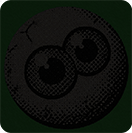
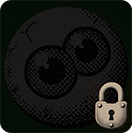
Added the ability to create new achievements and added new achievements.

Changed region(s): [[0.697, 0.6015, 0.9697, 0.9925]]

diff --git a/achievements.js b/achievements.js
@@ -1,35 +1,55 @@
 const ACHIEVEMENT_KEY='skinator-achievements-v1';
 const ACHIEVEMENT_ICON_BASE='assets/achievements/';
+const ACHIEVEMENT_SEED_VERSION=2;
+const ACHIEVEMENT_SEED_UPDATED_AT='2026-09-15T00:00:00.000Z';
 const ACHIEVEMENT_SEED=[
-  ['ACH_OPERATOR_LICENSE','OPERATOR LICENSE','Complete the tutorial.','ach_OperatorLicense'],
-  ['ACH_EVOLUTION','EVOLUTION','Replace one of your body parts.','ach_evolution'],
-  ['ACH_SEEKER','SEEKER','Use the reset button on the Body part swap screen.','ach_seeker'],
-  ['ACH_FIRST_BLOOD','FIRST BLOOD','Defeat your first enemy in the main game.','ach_firstBlood'],
-  ['ACH_DOMINATION','DOMINATION','Beat Knu Rao.','ach_DOMINATION'],
-  ['ACH_MASTERY','MASTERY','Beat 5 enemies in the main game.','ach_mastery'],
-  ['ACH_CLEANUP','CLEANUP','Defeat 10 enemies in a single run.','ach_cleanup'],
-  ['ACH_THIRST','THIRST','Drink a potion.','ach_thirst'],
-  ['ACH_BUSINESS','BUSINESS','Buy a body part from the Shop Keeper.','ach_business'],
-  ['ACH_CONTABAND','CONTABAND','Purchase a spin at the Corpse Monger.','ach_contraband'],
-  ['ACH_CURSE','CURSE','Ascend a part with the Temple Priest.','ach_curse'],
-  ['ACH_MOGUL','MOGUL','Buy all 3 parts at the Shop Keeper in a single interaction.','ach_mogul-copy'],
-  ['ACH_UNMATCHED','UNMATCHED','Beat Knu Rao with more than 50% of your Health Pool remaining.','ach_FlawlessVictory'],
-  ['ACH_REPLACEMENT','REPLACEMENT','Replace all default skeleton parts in a single run.','ach_replacement'],
-  ['ACH_BETRAYAL','BETRAYAL','Get the crow card at the Wandering Monk.','ach_Betrayal'],
-  ['ACH_PATH_FINDER','PATH FINDER','Talk with every NPC on the map.','ach_pathfinde'],
-  ['ACH_FORGIVENESS','FORGIVENESS','Escape from a fight.','ach_forgiveness-copy'],
-  ['ACH_BRITTLE_BONE','BRITTLE BONE','Get your Health Pool under 10 max health.','ach_brittleBone-copy'],
-  ['ACH_IRON_SKIN','IRON SKIN','Get your max health in the Health Pool to 50 points.','ach_ironskin-copy'],
-  ['ACH_RIP','RIP','Talk with Oborogumo.','ach_RIP'],
-  ['ACH_TARGET_ACQUIRED','TARGET ACQUIRED','Get into a fight with Knu Rao.','ach_TargetAcquired'],
-  ['ACH_STURDINESS','STURDINESS','Get your max health in the Health Pool to 30 points.','ach_sturdiness'],
-  ['ACH_LUCK','LUCK','Get a part from the Corpse Monger.','ach_luck'],
-  ['ACH_MUTATION','MUTATION','Get a body part with 3 modifiers.','ach_mutation'],
-  ['ACH_VELOCITY','VELOCITY','Get your max speed over 40 points.','ach_velocity'],
-  ['ACH_BURIAL','BURIAL','Die in the main game.','ach_burrial'],
-  ['ACH_RESURRECTION','RESURRECTION','Play a second run.','ach_Resurrection'],
-  ['ACH_SKINATOR','SKINATOR','Get all body parts in your collection.','ach_skinator'],
-  ['ACH_OBLITERATION','OBLITERATION','', 'ach_OBLITERATION-copy']
+  ['ACH_DOMINATION','DOMINATION','BEAT KNU-RAO.','domination'],
+  ['ACH_VETERAN','VETERAN','DEFEAT BOTH SANGO AND KNU-RAO AT LEAST ONCE.','veteran'],
+  ['ACH_PERSUATION','PERSUASION',"EXTRACT KNU-RAO'S SPAWN.",'persuasion'],
+  ['ACH_EVOLUTION','EVOLUTION','REPLACE ONE OF YOUR BODY PARTS.','evolution'],
+  ['ACH_SEEKER','SEEKER','USE THE RESET BUTTON ON THE BODY PART SWAP SCREEN.','seeker'],
+  ['ACH_OPERATOR_LICENSE','OPERATOR LICENSE','COMPLETE THE TUTORIAL.','operator_license'],
+  ['ACH_FIRST_BLOOD','FIRST BLOOD','DEFEAT AN ENEMY IN THE MAIN GAME.','first_blood'],
+  ['ACH_MASTERY','MASTERY','BEAT 5 ENEMIES IN THE MAIN GAME.','mastery'],
+  ['ACH_CLEANUP','CLEANUP','DEFEAT 10 ENEMIES IN A SINGLE RUN.','cleanup'],
+  ['ACH_THIRST','THIRST','DRINK A POTION.','thirst'],
+  ['ACH_BUSINESS','BUSINESS','BUY A BODY PART FROM THE SHOP KEEPER.','business'],
+  ['ACH_CONTABAND','CONTABAND','PURCHASE A SPIN AT THE CORPSE MONGER.','contraband'],
+  ['ACH_CURSE','CURSE','ASCEND A PART WITH THE TEMPLE PRIEST.','curse'],
+  ['ACH_DEXTERITY','DEXTERITY','SKINATE KNU-RAO.','dexterity'],
+  ['ACH_SKINATED','SKINATED','SKINATE AN ENEMY.','skinated'],
+  ['ACH_MOGUL','MOGUL','BUY ALL 3 PARTS AT THE SHOP KEEPER IN A SINGLE INTERACTION.','mogul'],
+  ['ACH_UNMATCHED','UNMATCHED','BEAT KNU-RAO WITH AT LEAST HALF YOUR MAXIMUM HEALTH REMAINING.','unmatched'],
+  ['ACH_REPLACEMENT','REPLACEMENT','REPLACE ALL DEFAULT SKELETON PARTS IN A SINGLE RUN.','replacement'],
+  ['ACH_BETRAYAL','BETRAYAL','GET THE CROW CARD AT THE WANDERING MONK.','betrayal'],
+  ['ACH_OBLITERATION','OBLITERATION','DEFEAT EVERY ENEMY ON A SINGLE MAP.','obliteration'],
+  ['ACH_PATH_FINDER','PATH FINDER','TALK WITH EVERY NPC ON THE MAP.','path_finder'],
+  ['ACH_FORGIVENESS','FORGIVENESS','ESCAPE FROM A FIGHT.','forgiveness'],
+  ['ACH_BRITTLE_BONE','BRITTLE BONE','GET YOUR HEALTH POOL UNDER 10 MAX HEALTH.','brittle_bone'],
+  ['ACH_IRON_SKIN','IRON SKIN','GET YOUR MAX HEALTH IN THE HEALTH POOL TO 50 POINTS.','iron_skin'],
+  ['ACH_RIP','RIP','TALK WITH OBOROGUMO.','rip'],
+  ['ACH_TARGET_ACQUIRED','TARGET ACQUIRED','GET INTO A FIGHT WITH KNU-RAO.','target_acquired'],
+  ['ACH_STURDINESS','STURDINESS','GET YOUR MAX HEALTH IN THE HEALTH POOL TO 30 POINTS.','sturdiness'],
+  ['ACH_LUCK','LUCK','GET A PART FROM THE CORPSE MONGER.','luck'],
+  ['ACH_MUTATION','MUTATION','GET A BODY PART WITH 3 MODIFIERS.','mutation'],
+  ['ACH_VELOCITY','VELOCITY','GET YOUR MAX SPEED OVER 40 POINTS.','velocity'],
+  ['ACH_BURIAL','BURIAL','DIE IN THE MAIN GAME.','burial'],
+  ['ACH_RESURRECTION','RESURRECTION','PLAY A SECOND RUN.','resurrection'],
+  ['ACH_SKINATOR','SKINATOR','NO DESC. NOT YET USED.','skinator'],
+  ['ACH_ACTIVATION','ACTIVATION','USE A SPAWN ABILITY FOR THE FIRST TIME.','activation'],
+  ['ACH_INTROSPECTION','INTROSPECTION','EQUIP GRAVEYARD DRONE PET.','introspection'],
+  ['ACH_AUTOPSY','AUTOPSY','CLICK THE INSPECT BUTTON IN THE BODY PART SWAP SCREEN.','autopsy'],
+  ['ACH_MENAGERIE','MENAGERIE','CHECK SPAWN INVENTORY IN THE MAIN MENU.','menagerie'],
+  ['ACH_ENCYCLOPEDIA','ENCYCLOPEDIA','GET ALL BODY PARTS FROM GRAVEYARD.','encyclopedia'],
+  ['ACH_ACCLIMATION','ACCLIMATION','DEFEAT 3 ENEMIES.','acclimation'],
+  ['ACH_BIOLOGY','BIOLOGY','CHECK PARASITE INVENTORY IN THE MAIN MENU.','biology'],
+  ['ACH_RESEARCH','RESEARCH','CHECK YOUR MODIFIER INVENTORY IN THE MAIN MENU.','research'],
+  ['ACH_EXORCIST','EXORCIST','SELECT SANGO AS TARGET IN THE MAIN MENU','exorcist'],
+  ['ACH_SERVANT','SERVANT',"EQUIP GENKE'S SPAWN",'servant'],
+  ['ACH_OSTENTATION','OSTENTATION','EQUIP KNU-RAO SPAWN.','ostentation'],
+  ['ACH_PURIFICATION','PURIFICATION','DEFEAT SANGO.','purification'],
+  ['ACH_MITOSIS','MITOSIS','GET GRAVEYARD DRONE PET.','mitosis'],
+  ['ACH_CAPTURE','CAPTURE',"EXTRACT GENKE'S SPAWN.",'capture']
 ].map(([apiName,displayName,description,fileBase],index)=>({
   id:apiName.toLowerCase(),
   order:index,
@@ -38,19 +58,38 @@ const ACHIEVEMENT_SEED=[
   displayName,
   description,
   hidden:false,
-  unlockedIcon:`${ACHIEVEMENT_ICON_BASE}${fileBase}_unlocked.png`,
-  lockedIcon:`${ACHIEVEMENT_ICON_BASE}${fileBase}_locked.png`,
-  updatedAt:new Date().toISOString()
+  unlockedIcon:`${ACHIEVEMENT_ICON_BASE}ach_${fileBase}_unlocked.png`,
+  lockedIcon:`${ACHIEVEMENT_ICON_BASE}ach_${fileBase}_locked.png`,
+  seedVersion:ACHIEVEMENT_SEED_VERSION,
+  updatedAt:ACHIEVEMENT_SEED_UPDATED_AT
 }));
 
+const achievementRecordKey=record=>String(record?.apiName||record?.id||'').trim().toUpperCase();
 function mergeAchievementSeed(records=[]){
-  const existing=new Map(records.map(record=>[record.apiName||record.id,record]));
-  return ACHIEVEMENT_SEED.map(seed=>({...seed,...(existing.get(seed.apiName)||existing.get(seed.id)||{})}))
-    .concat(records.filter(record=>!ACHIEVEMENT_SEED.some(seed=>seed.apiName===(record.apiName||record.id))));
+  const existing=new Map();
+  records.forEach(record=>{
+    existing.set(achievementRecordKey(record),record);
+    if(record.id)existing.set(String(record.id).trim().toUpperCase(),record);
+  });
+  const seedKeys=new Set(ACHIEVEMENT_SEED.flatMap(seed=>[achievementRecordKey(seed),String(seed.id).toUpperCase()]));
+  let migrated=false;
+  const seeded=ACHIEVEMENT_SEED.map(seed=>{
+    const record=existing.get(achievementRecordKey(seed))||existing.get(String(seed.id).toUpperCase());
+    if(!record){migrated=true;return{...seed}}
+    if((Number(record.seedVersion)||0)<ACHIEVEMENT_SEED_VERSION){
+      migrated=true;
+      return {...record,...seed,progressStat:record.progressStat||'',hidden:!!record.hidden,deleted:!!record.deleted};
+    }
+    return {...seed,...record};
+  });
+  const extras=records.filter(record=>!seedKeys.has(achievementRecordKey(record))&&!seedKeys.has(String(record.id||'').toUpperCase()));
+  window.skinatorAchievementSeedMigrated=!!window.skinatorAchievementSeedMigrated||migrated;
+  return seeded.concat(extras);
 }
 
 const savedAchievements=(()=>{try{return JSON.parse(localStorage.getItem(ACHIEVEMENT_KEY))||[]}catch{return[]}})();
 let achievements=mergeAchievementSeed(publishedSnapshot?.achievements||savedAchievements);
+if(window.skinatorAchievementSeedMigrated)try{localStorage.setItem(ACHIEVEMENT_KEY,JSON.stringify(achievements))}catch{}
 let editingAchievementId=null;
 let editingAchievementUnlocked='';
 let editingAchievementLocked='';
@@ -70,6 +109,7 @@ document.querySelector('main').insertAdjacentHTML('beforeend',`
   <section class="panel">
     <div class="toolbar achievement-toolbar">
       <label class="search">⌕ <input id="achievementSearch" placeholder="SEARCH ACHIEVEMENTS"></label>
+      <button class="btn red achievement-create" id="achievementCreate" type="button">＋ NEW ACHIEVEMENT</button>
       <label class="achievement-lock-switch"><input id="achievementDisplayLocked" type="checkbox"> DISPLAY LOCKED</label>
       <span id="achievementResultCount"></span>
     </div>
@@ -91,7 +131,7 @@ document.body.insertAdjacentHTML('beforeend',`
       <label>DESCRIPTION<textarea id="achievementDescription" rows="4"></textarea></label>
       <div class="achievement-checks"><label><input id="achievementHidden" type="checkbox"> HIDDEN / SECRET ACHIEVEMENT</label></div>
     </div>
-    <div class="dialog-actions"><span></span><span></span><button type="button" class="btn ghost achievement-close">CANCEL</button><button class="btn red" type="submit">SAVE ACHIEVEMENT</button></div>
+    <div class="dialog-actions"><button type="button" class="btn danger" id="achievementDelete" hidden>DELETE ACHIEVEMENT</button><span></span><button type="button" class="btn ghost achievement-close">CANCEL</button><button class="btn red" type="submit">SAVE ACHIEVEMENT</button></div>
   </form>
 </dialog>`);
 
@@ -112,6 +152,7 @@ document.head.appendChild(achievementZoomStyles);
 if(typeof addNodeZoom==='function')addNodeZoom({viewId:'achievementsView',gridId:'achievementGrid',label:'ACHIEVEMENT',key:'achievements'});
 
 function achievementImage(icon,storagePath,name){
+  if(!icon)return '<span class="achievement-icon-empty">NO ICON</span>';
   const fallback=icon&&storagePath?` data-fallback="${escapeHtml(icon)}"`:'';
   const storage=storagePath?` data-storage-path="${escapeHtml(storagePath)}" onerror="window.skinatorRefreshCloudImage?.(this)"`:'';
   return `<img src="${escapeHtml(icon||'')}" alt="${escapeHtml(name)}" loading="lazy" decoding="async"${storage}${fallback}>`;
@@ -120,12 +161,14 @@ function saveAchievements(){
   localStorage.setItem(ACHIEVEMENT_KEY,JSON.stringify(achievements));
   window.skinatorCloudSave?.();
 }
+const activeAchievements=()=>achievements.filter(record=>!record.deleted);
 function renderAchievements(){
   const query=($('achievementSearch').value||'').toLowerCase();
-  const rows=achievements.filter(record=>`${record.apiName} ${record.progressStat} ${record.displayName} ${record.description}`.toLowerCase().includes(query));
-  $('achievementCount').textContent=achievements.length;
-  $('navAchievementCount').textContent=achievements.length;
-  $('achievementHiddenCount').textContent=achievements.filter(record=>record.hidden).length;
+  const active=activeAchievements();
+  const rows=active.filter(record=>`${record.apiName} ${record.progressStat} ${record.displayName} ${record.description}`.toLowerCase().includes(query));
+  $('achievementCount').textContent=active.length;
+  $('navAchievementCount').textContent=active.length;
+  $('achievementHiddenCount').textContent=active.filter(record=>record.hidden).length;
   $('achievementIconMode').textContent=displayLockedAchievements?'LOCKED':'OPEN';
   $('achievementResultCount').textContent=plural(rows.length,'RESULT');
   $('achievementDisplayLocked').checked=displayLockedAchievements;
@@ -140,7 +183,7 @@ function renderAchievements(){
   document.querySelectorAll('.achievement-card').forEach(card=>card.onclick=()=>openAchievement(card.dataset.id));
 }
 function openAchievement(id){
-  const record=achievements.find(item=>item.id===id);
+  const record=achievements.find(item=>item.id===id&&!item.deleted);
   if(!record)return;
   editingAchievementId=id;
   editingAchievementUnlocked=record.unlockedIcon||'';
@@ -153,7 +196,25 @@ function openAchievement(id){
   $('achievementHidden').checked=!!record.hidden;
   $('achievementUnlockedPreview').src=editingAchievementUnlocked;
   $('achievementLockedPreview').src=editingAchievementLocked;
+  $('achievementDelete').hidden=false;
   $('achievementDialog').showModal();
+}
+function openNewAchievement(){
+  editingAchievementId=null;
+  editingAchievementUnlocked='';
+  editingAchievementLocked='';
+  $('achievementDialogTitle').textContent='NEW ACHIEVEMENT';
+  $('achievementApiName').value='ACH_';
+  $('achievementProgressStat').value='';
+  $('achievementDisplayName').value='';
+  $('achievementDescription').value='';
+  $('achievementHidden').checked=false;
+  $('achievementUnlockedPreview').removeAttribute('src');
+  $('achievementLockedPreview').removeAttribute('src');
+  $('achievementDelete').hidden=true;
+  $('achievementApiName').setCustomValidity('');
+  $('achievementDialog').showModal();
+  $('achievementApiName').focus();
 }
 function acceptAchievementIcon(file,locked){
   fileData(file,data=>{
@@ -163,6 +224,7 @@ function acceptAchievementIcon(file,locked){
 }
 
 $('achievementSearch').oninput=renderAchievements;
+$('achievementCreate').onclick=openNewAchievement;
 $('achievementDisplayLocked').onchange=event=>{
   displayLockedAchievements=event.target.checked;
   localStorage.setItem('skinator-achievements-display-locked',String(displayLockedAchievements));
@@ -173,27 +235,50 @@ $('achievementLockedInput').onchange=event=>acceptAchievementIcon(event.target.f
 setupDrop($('achievementUnlockedDrop'),file=>acceptAchievementIcon(file,false));
 setupDrop($('achievementLockedDrop'),file=>acceptAchievementIcon(file,true));
 document.querySelectorAll('.achievement-close').forEach(button=>button.onclick=()=>$('achievementDialog').close());
-$('achievementApiName').oninput=event=>event.target.value=event.target.value.toUpperCase();
+$('achievementApiName').oninput=event=>{event.target.value=event.target.value.toUpperCase();event.target.setCustomValidity('')};
 $('achievementDisplayName').oninput=event=>event.target.value=event.target.value.toUpperCase();
+$('achievementDelete').onclick=()=>{
+  const record=achievements.find(item=>item.id===editingAchievementId&&!item.deleted);
+  if(!record||!window.confirm(`Delete ${record.displayName||record.apiName}?`))return;
+  record.deleted=true;
+  record.updatedAt=new Date().toISOString();
+  saveAchievements();
+  renderAchievements();
+  $('achievementDialog').close();
+  toast('ACHIEVEMENT DELETED');
+};
 $('achievementForm').onsubmit=event=>{
   event.preventDefault();
   if(!event.currentTarget.reportValidity())return;
-  const record=achievements.find(item=>item.id===editingAchievementId);
-  if(!record)return;
+  const apiName=$('achievementApiName').value.trim().toUpperCase();
+  const duplicate=achievements.find(item=>!item.deleted&&item.apiName===apiName&&item.id!==editingAchievementId);
+  if(duplicate){$('achievementApiName').setCustomValidity('This API name is already in use.');$('achievementApiName').reportValidity();return}
+  let record=achievements.find(item=>item.id===editingAchievementId);
+  const created=!record;
+  if(!record){
+    record=achievements.find(item=>item.deleted&&item.apiName===apiName);
+    if(!record){
+      const id=`achievement-${Date.now()}-${Math.random().toString(36).slice(2,8)}`;
+      record={id,order:Math.max(-1,...achievements.map(item=>Number(item.order)||0))+1};
+      achievements.push(record);
+    }
+  }
   Object.assign(record,{
-    apiName:$('achievementApiName').value.trim().toUpperCase(),
+    apiName,
     progressStat:$('achievementProgressStat').value.trim(),
     displayName:$('achievementDisplayName').value.trim().toUpperCase(),
     description:$('achievementDescription').value.trim(),
     hidden:$('achievementHidden').checked,
     unlockedIcon:editingAchievementUnlocked,
     lockedIcon:editingAchievementLocked,
+    deleted:false,
+    seedVersion:ACHIEVEMENT_SEED_VERSION,
     updatedAt:new Date().toISOString()
   });
   saveAchievements();
   renderAchievements();
   $('achievementDialog').close();
-  toast('ACHIEVEMENT UPDATED');
+  toast(created?'ACHIEVEMENT CREATED':'ACHIEVEMENT UPDATED');
 };
 
 const achievementPreviousSetTab=setTab;

diff --git a/achievements.css b/achievements.css
@@ -1,2 +1,2 @@
 .achievement-stats{grid-template-columns:repeat(3,1fr)}
-.achievement-toolbar{flex-wrap:wrap}.achievement-lock-switch{display:flex;align-items:center;gap:8px;margin-left:auto;padding:8px 11px;border:1px solid #345a3c;background:#142219;color:#73d990;cursor:pointer}.achievement-lock-switch input{width:auto;margin:0;accent-color:#46bc68}.achievement-grid{padding:17px;display:grid;grid-template-columns:repeat(auto-fill,minmax(320px,1fr));gap:12px}.achievement-card{display:grid;grid-template-columns:128px 1fr;min-height:170px;border:1px solid #2c3430;background:#141a16;cursor:pointer;transition:.18s;overflow:hidden}.achievement-card:hover{transform:translateY(-3px);border-color:#3f9756;box-shadow:0 14px 30px #0008}.achievement-card.hidden-achievement{opacity:.72}.achievement-visual{position:relative;display:grid;place-items:center;padding:10px;background:#071009}.achievement-visual img{width:100%;height:100%;object-fit:contain;object-position:center}.achievement-info{padding:15px;min-width:0}.achievement-info small{display:block;color:#4b9f60;font:700 8px ui-monospace;overflow:hidden;text-overflow:ellipsis;white-space:nowrap}.achievement-info h3{margin:7px 0;font:700 14px inherit;letter-spacing:.05em}.achievement-info p{margin:0;color:#aab3ad;font-size:11px;line-height:1.55}.achievement-info>div{display:flex;gap:5px;flex-wrap:wrap;margin-top:12px}.achievement-info>div span,.achievement-info>div b{padding:5px 7px;font:700 7px inherit}.achievement-info>div span{border:1px solid #406d4a;color:#9ae5aa}.achievement-info>div b{border:1px solid #654b28;color:#d6a35e}.achievement-icon-editor{display:grid;grid-template-columns:1fr 1fr;gap:14px}.achievement-upload{position:relative;display:grid;place-items:center;aspect-ratio:1;border:1px dashed #4c8d5c;background:#0a120c;overflow:hidden;cursor:pointer}.achievement-upload img{width:100%;height:100%;object-fit:contain}.achievement-upload span{position:absolute;left:8px;bottom:8px;padding:5px 7px;background:#061008dc;color:#8bd99d;font:700 7px inherit}.achievement-upload.locked{border-color:#38423a}.achievement-checks{display:flex;align-items:end;gap:9px}.achievement-checks label{display:flex;align-items:center;gap:7px;padding:10px;border:1px solid #30363a;background:#171b18}.achievement-checks input{width:auto;margin:0;accent-color:#48b965}@media(max-width:650px){.achievement-stats{grid-template-columns:1fr}.achievement-grid{grid-template-columns:1fr}.achievement-card{grid-template-columns:108px 1fr}.achievement-icon-editor{grid-template-columns:1fr 1fr}.achievement-lock-switch{margin-left:0}}
+.achievement-toolbar{flex-wrap:wrap}.achievement-create{white-space:nowrap}.achievement-lock-switch{display:flex;align-items:center;gap:8px;margin-left:auto;padding:8px 11px;border:1px solid #345a3c;background:#142219;color:#73d990;cursor:pointer}.achievement-lock-switch input{width:auto;margin:0;accent-color:#46bc68}.achievement-grid{padding:17px;display:grid;grid-template-columns:repeat(auto-fill,minmax(320px,1fr));gap:12px}.achievement-card{display:grid;grid-template-columns:128px 1fr;min-height:170px;border:1px solid #2c3430;background:#141a16;cursor:pointer;transition:.18s;overflow:hidden}.achievement-card:hover{transform:translateY(-3px);border-color:#3f9756;box-shadow:0 14px 30px #0008}.achievement-card.hidden-achievement{opacity:.72}.achievement-visual{position:relative;display:grid;place-items:center;padding:10px;background:#071009}.achievement-visual img{width:100%;height:100%;object-fit:contain;object-position:center}.achievement-icon-empty{color:#42634a;font:700 9px ui-monospace;letter-spacing:.12em}.achievement-info{padding:15px;min-width:0}.achievement-info small{display:block;color:#4b9f60;font:700 8px ui-monospace;overflow:hidden;text-overflow:ellipsis;white-space:nowrap}.achievement-info h3{margin:7px 0;font:700 14px inherit;letter-spacing:.05em}.achievement-info p{margin:0;color:#aab3ad;font-size:11px;line-height:1.55}.achievement-info>div{display:flex;gap:5px;flex-wrap:wrap;margin-top:12px}.achievement-info>div span,.achievement-info>div b{padding:5px 7px;font:700 7px inherit}.achievement-info>div span{border:1px solid #406d4a;color:#9ae5aa}.achievement-info>div b{border:1px solid #654b28;color:#d6a35e}.achievement-icon-editor{display:grid;grid-template-columns:1fr 1fr;gap:14px}.achievement-upload{position:relative;display:grid;place-items:center;aspect-ratio:1;border:1px dashed #4c8d5c;background:#0a120c;overflow:hidden;cursor:pointer}.achievement-upload img{width:100%;height:100%;object-fit:contain}.achievement-upload img:not([src]){visibility:hidden}.achievement-upload span{position:absolute;left:8px;bottom:8px;padding:5px 7px;background:#061008dc;color:#8bd99d;font:700 7px inherit}.achievement-upload.locked{border-color:#38423a}.achievement-checks{display:flex;align-items:end;gap:9px}.achievement-checks label{display:flex;align-items:center;gap:7px;padding:10px;border:1px solid #30363a;background:#171b18}.achievement-checks input{width:auto;margin:0;accent-color:#48b965}@media(max-width:650px){.achievement-stats{grid-template-columns:1fr}.achievement-grid{grid-template-columns:1fr}.achievement-card{grid-template-columns:108px 1fr}.achievement-icon-editor{grid-template-columns:1fr 1fr}.achievement-lock-switch{margin-left:0}}

diff --git a/cloud.js b/cloud.js
@@ -232,7 +232,7 @@ async function cloudLoad(isRefresh=false){
   cloudRemoteKeys.clear();cloudHashes.clear();cloudAssetPaths.clear();cloudExplicitlyRemovedAssets.clear();const grouped={character:[],modifier:[],npc:[],parasyte:[],achievement:[],outreach:[],publisher:[],idea:[],idea_category:[],ongoing_task:[],task_option:[]};const hydratedRows=await cloudMapLimit(rows,8,async row=>({row,data:await cloudHydrate(row.record_type,row.data)}));for(const {row,data} of hydratedRows){const key=`${row.record_type}:${row.id}`;cloudRemoteKeys.add(key);cloudHashes.set(key,JSON.stringify(row.data));grouped[row.record_type]?.push(data)}
   const characterMigration=migrateCharacterVariants(grouped.character),modifierWorkingMigration=grouped.modifier.some(modifier=>typeof modifier.working!=='boolean');state.characters=characterMigration.characters;state.modifiers=normalizeModifierWorkingRecords(grouped.modifier);ensureSpawnModifiersInState();state.npcs=grouped.npc;parasytes=grouped.parasyte;const recoveredMissingAchievements=!grouped.achievement.length&&achievements.length;if(grouped.achievement.length)achievements=mergeAchievementSeed(grouped.achievement);localStorage.setItem(ACHIEVEMENT_KEY,JSON.stringify(achievements));
   const {data:plan,error:planError}=await cloudClient.from('skinator_planner').select('data,updated_at').eq('id','main').maybeSingle();if(planError)throw planError;if(plan?.data){Object.keys(planner).forEach(k=>delete planner[k]);Object.assign(planner,plan.data)}const influencerAnalysisWasInitialized=!!planner.influencerAnalysisInitialized,businessInitialized=!!planner.businessInitialized,categoriesInitialized=!!planner.ideaCategoriesInitialized,tasksInitialized=!!planner.ongoingTasksInitialized,optionsInitialized=!!planner.taskOptionsInitialized,needsIdeaMigration=(planner.ideaSeedRevision||0)<IDEA_SEED_REVISION,needsPublisherMigration=(planner.publisherSeedRevision||0)<PUBLISHER_SEED_REVISION,recoveredMissingBusiness=(!grouped.outreach.length&&outreachRecords.length)||(!grouped.publisher.length&&publisherRecords.length)||(!grouped.idea.length&&ideaRecords.length)||(!grouped.idea_category.length&&ideaCategoryRecords.length)||(!grouped.ongoing_task.length&&ongoingTaskRecords.length)||(!grouped.task_option.length&&taskOptionRecords.length);if(grouped.outreach.length)outreachRecords=grouped.outreach;if(grouped.publisher.length)publisherRecords=grouped.publisher;if(grouped.idea.length)ideaRecords=grouped.idea;if(grouped.idea_category.length)ideaCategoryRecords=grouped.idea_category;if(grouped.ongoing_task.length)ongoingTaskRecords=grouped.ongoing_task;if(grouped.task_option.length)taskOptionRecords=grouped.task_option;if(needsIdeaMigration){mergeLatestIdeaSeed();planner.ideaSeedRevision=IDEA_SEED_REVISION}if(needsPublisherMigration){mergeLatestPublisherSeed();planner.publisherSeedRevision=PUBLISHER_SEED_REVISION}if(!businessInitialized)planner.businessInitialized=true;if(!categoriesInitialized)planner.ideaCategoriesInitialized=true;if(!tasksInitialized)planner.ongoingTasksInitialized=true;if(!optionsInitialized)planner.taskOptionsInitialized=true;localStorage.setItem(BUSINESS_KEY,JSON.stringify({outreach:outreachRecords,publishers:publisherRecords,ideas:ideaRecords,ideaCategories:ideaCategoryRecords,ongoingTasks:ongoingTaskRecords,taskOptions:taskOptionRecords,ideaSeedRevision:IDEA_SEED_REVISION,publisherSeedRevision:PUBLISHER_SEED_REVISION}));const influencerAnalysisSeeded=typeof ensureInfluencerAnalysisSeed==='function'&&ensureInfluencerAnalysisSeed({persist:false});cloudRememberSignature(rows,plan?.updated_at);
-  const taskSourcesChanged=typeof syncTaskSources==='function'&&syncTaskSources({persist:false});cloudReady=true;cloudRenderActiveView();cloudSetReady(true);cloudSetState('ALL CHANGES SAVED',true);toast(characterMigration.migrated?`${characterMigration.migrated} VARIANTS CONVERTED TO CHARACTERS`:(isRefresh?'TEAM CHANGES LOADED':'SHARED TRACKER LOADED'));if(!businessInitialized||!categoriesInitialized||!tasksInitialized||!optionsInitialized||!influencerAnalysisWasInitialized||influencerAnalysisSeeded||recoveredMissingBusiness||recoveredMissingAchievements||needsIdeaMigration||needsPublisherMigration||taskSourcesChanged||characterMigration.changed||modifierWorkingMigration)window.skinatorCloudSave();
+  const taskSourcesChanged=typeof syncTaskSources==='function'&&syncTaskSources({persist:false}),achievementSeedMigration=!!window.skinatorAchievementSeedMigrated;window.skinatorAchievementSeedMigrated=false;cloudReady=true;cloudRenderActiveView();cloudSetReady(true);cloudSetState('ALL CHANGES SAVED',true);toast(characterMigration.migrated?`${characterMigration.migrated} VARIANTS CONVERTED TO CHARACTERS`:(isRefresh?'TEAM CHANGES LOADED':'SHARED TRACKER LOADED'));if(!businessInitialized||!categoriesInitialized||!tasksInitialized||!optionsInitialized||!influencerAnalysisWasInitialized||influencerAnalysisSeeded||recoveredMissingBusiness||recoveredMissingAchievements||achievementSeedMigration||needsIdeaMigration||needsPublisherMigration||taskSourcesChanged||characterMigration.changed||modifierWorkingMigration)window.skinatorCloudSave();
 }
 async function cloudStart(session){
   await window.skinatorLocalReady;

diff --git a/publish.js b/publish.js
@@ -33,7 +33,7 @@ function extensionFor(type){return({"image/gif":"gif","image/png":"png","image/j
 async function createPublishSnapshot(){
   const button=$('publishBtn');button.classList.add('publish-working');button.textContent='PACKAGING…';
   try{
-    const database=structuredClone({schemaVersion:5,characters:state.characters,modifiers:state.modifiers,npcs:state.npcs}),publishedParasites=structuredClone(parasytes),publishedAchievements=structuredClone(achievements),publishedPlanner=structuredClone(planner),publishedRoster=structuredClone(rosterView),entries=[],used=new Map();
+    const database=structuredClone({schemaVersion:5,characters:state.characters,modifiers:state.modifiers,npcs:state.npcs}),publishedParasites=structuredClone(parasytes),publishedAchievements=structuredClone(achievements.filter(achievement=>!achievement.deleted)),publishedPlanner=structuredClone(planner),publishedRoster=structuredClone(rosterView),entries=[],used=new Map();
     const extract=async(value,label)=>{if(typeof value!=='string'||!value.startsWith('data:'))return value;const blob=await fetch(value).then(r=>r.blob()),base=safeName(label),count=used.get(base)||0;used.set(base,count+1);const name=`snapshot-assets/${base}${count?`-${count+1}`:''}.${extensionFor(blob.type)}`;entries.push({name,data:blob});return name};
     for(const c of database.characters){c.mainGif=await extract(c.mainGif,`${c.fileName}-360`);c.petImage=await extract(c.petImage,`${c.fileName}-spawn`);for(const [i,v] of (c.variants||[]).entries()){const label=`${c.fileName}-${v.name||`variant-${i+1}`}`;v.gif=await extract(v.gif,label);v.spawnImage=await extract(v.spawnImage,`${label}-spawn`)}}
     for(const m of database.modifiers)m.iconData=await extract(m.iconData,`modifier-${m.name}`);
